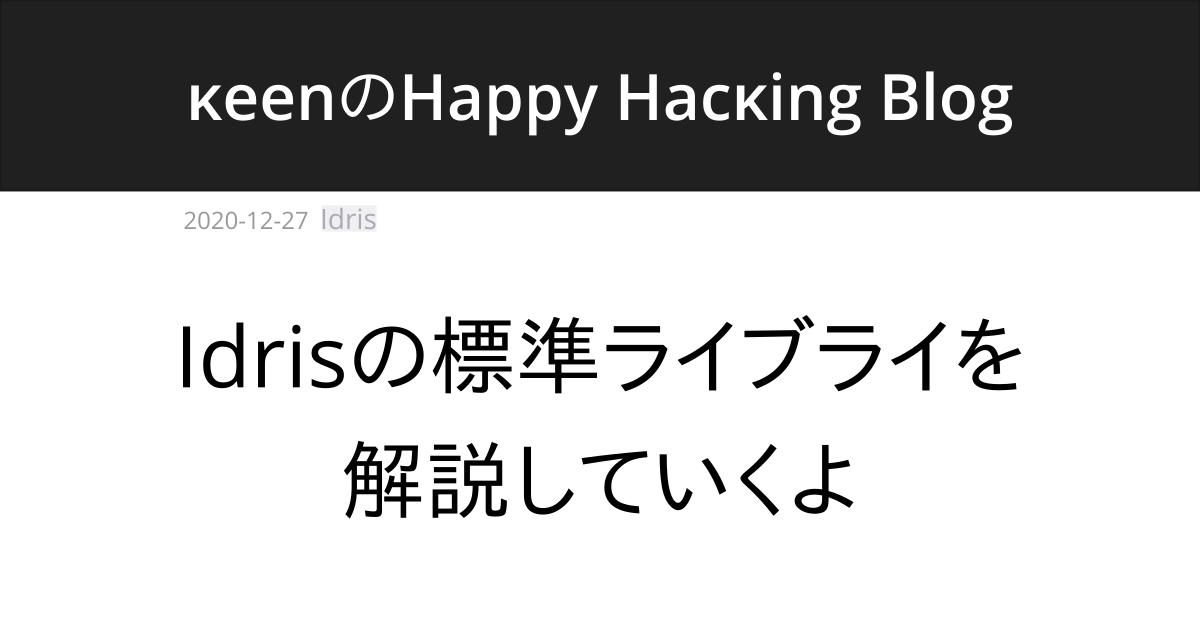
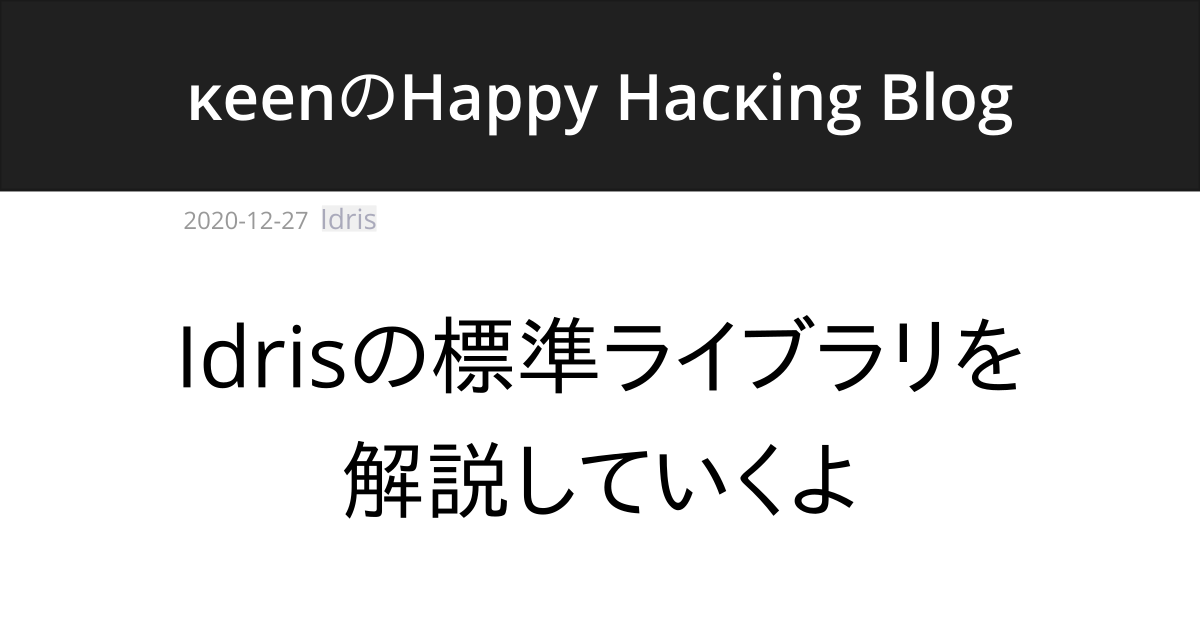
Site updated at 2020-12-28 12:51:59 UTC

diff --git a/public/categories/idris/index.html b/public/categories/idris/index.html
@@ -93,7 +93,7 @@
                 <ul class="li-article-list">
                     
                     <li>
-                        <h4><a href="/blog/2020/12/27/idrisnohyoujunraiburaiwokaisetsushiteikuyo/">Idrisの標準ライブライを解説していくよ</a></h4>
+                        <h4><a href="/blog/2020/12/27/idrisnohyoujunraiburaiwokaisetsushiteikuyo/">Idrisの標準ライブラリを解説していくよ</a></h4>
                         <div class="li-article-meta">
     <time class="li-article-date">2020-12-27</time>
     <ul class="li-article-tag">

diff --git a/public/post/index.html b/public/post/index.html
@@ -118,7 +118,7 @@
                         </li>
                     
                     <li>
-                            <h4><a href="/blog/2020/12/27/idrisnohyoujunraiburaiwokaisetsushiteikuyo/">Idrisの標準ライブライを解説していくよ</a></h4>
+                            <h4><a href="/blog/2020/12/27/idrisnohyoujunraiburaiwokaisetsushiteikuyo/">Idrisの標準ライブラリを解説していくよ</a></h4>
                             <div class="li-article-meta">
     <time class="li-article-date">2020-12-27</time>
     <ul class="li-article-tag">

diff --git a/public/blog/2020/12/28/smlnoshorikeikumikomireigaittenanda/index.html b/public/blog/2020/12/28/smlnoshorikeikumikomireigaittenanda/index.html
@@ -194,7 +194,7 @@ uncaught exception Match [nonexhaustive match failure]
                 <div class="li-pagination-next">
                     
                         Older article<br />
-                        <a href="/blog/2020/12/27/idrisnohyoujunraiburaiwokaisetsushiteikuyo/"> Idrisの標準ライブライを解説していくよ</a>
+                        <a href="/blog/2020/12/27/idrisnohyoujunraiburaiwokaisetsushiteikuyo/"> Idrisの標準ライブラリを解説していくよ</a>
                     
                 </div>
             </div>

diff --git a/public/index.html b/public/index.html
@@ -132,7 +132,7 @@
                     <div class="li-article">
                         <article>
     <header>
-        <h2><a href="/blog/2020/12/27/idrisnohyoujunraiburaiwokaisetsushiteikuyo/">Idrisの標準ライブライを解説していくよ </a></h2>
+        <h2><a href="/blog/2020/12/27/idrisnohyoujunraiburaiwokaisetsushiteikuyo/">Idrisの標準ライブラリを解説していくよ </a></h2>
         <div class="li-article-meta">
     <time class="li-article-date">2020-12-27</time>
     <ul class="li-article-tag">
